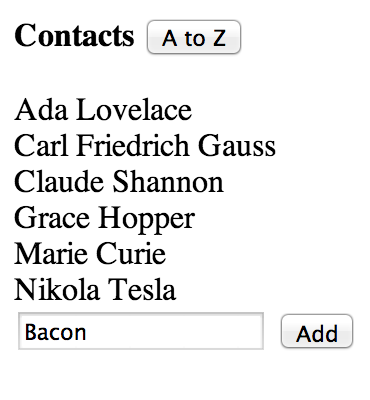
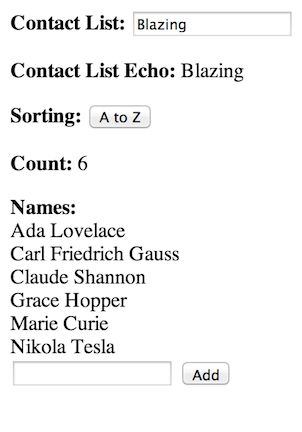
entire model as blaze var

diff --git a/contacts-bacon.html b/contacts-bacon.html
@@ -2,7 +2,11 @@
 
     <!-- The template named "main" automatically renders into the document body -->
     <script type="text/spacebars" name="main">
-<p><b>Contacts</b> <button id="toggle-order">{{order}}</button></p>
+<p><b>Contact List:</b> <input type="text" id="list-name"/></p>
+<p><b>Contact List Echo: </b> {{model.listName}}</p>
+<p><b>Sorting:</b> <button id="toggle-order">{{order}}</button></p>
+<p><b>Count: </b>{{model.names.length}}</p>
+<b> Names:</b>
  {{#each contacts}}
    <div>{{.}}</div>
  {{/each}}
@@ -19,9 +23,16 @@
 
     <script>
         function blazify(model, name) {
-            var b = Blaze.Var(model.get()[name]);
-            model.lens(name).onValue(b, "set");
-            return b;
+            if (name) {
+                var b = Blaze.Var(model.get()[name]);
+                model.lens(name).onValue(b, "set");
+                return b;
+            }
+            else {
+                var b = Blaze.Var(model.get());
+                model.onValue(b, "set");
+                return b;
+            }
         }
 
         function sorted (arr, asc) {
@@ -31,6 +42,22 @@
                 cloned.reverse(); // reverse in-place
             return cloned;
         };
+
+        function binder(component, name, type) {
+            return function(ev) {
+                var val = null;
+                if (type = "switch") {
+                   val = $(ev.target).is(":checked");
+                }
+                if (type = "enter" && ev.keyCode === 13) {console.log("ENTER")
+                    val = $(ev.target).val();
+                }
+                if(!type || val == null) {
+                   val = $(ev.target).val();
+                }
+                component.set(name, val);
+            }
+        }
 
         function componentFactory() {
             var model = new Bacon.Model({
@@ -42,6 +69,9 @@
             return {
                 blazify: function(name) {
                     return blazify(model, name);
+                },
+                set: function(name, val) {
+                    model.lens(name).set(val);
                 },
                 toggleOrder: function () { model.lens("ascending").set(! model.get().ascending); },
                 addName: function (evt, tmpl) {
@@ -56,13 +86,15 @@
         };
 
         function viewFactory(component) {
-            var names = component.blazify("names");
-            var ascending = component.blazify("ascending");
+            //var names = component.blazify("names");
+            //var ascending = component.blazify("ascending");
+            var model = component.blazify();
 
             return {
                 helpers: {
-                    order: function () { return ascending.get() ? 'A to Z' : 'Z to A'; },
-                    contacts: function () { return sorted(names.get(), ascending.get()); }
+                    model: function() { return model.get(); },
+                    order: function () { return model.get().ascending ? 'A to Z' : 'Z to A'; },
+                    contacts: function () { return sorted(model.get().names, model.get().ascending); }
                 }
             }
         };
@@ -76,7 +108,8 @@
 
         Template.main.events({
             'click #toggle-order': component.toggleOrder,
-            'submit form': component.addName
+            'submit form': component.addName,
+            'keyup #list-name': binder(component, "listName")
         });
     </script>
 

diff --git a/README.md b/README.md
@@ -1,21 +1,30 @@
 # Using Bacon and Blaze to implement reactive components
 
 1. The component holds a Bacon model and mutator methods.
-2. The view uses Blaze variables and exposes helpers for the Spacebar template.
-3. The component model propagates its changes to the Blaze variables.
+2. The view uses Blaze variable(s) and exposes helpers for the Spacebar template.
+3. The component model propagates its changes to the Blaze variable(s).
 4. Changes to the Blaze variables are only made by this propagation mechanism.
+5. Blaze supports model-to-view binding out-of-the-box
+6. For view-to-model or 2-way bindings it is easy to map events to Bacon model lens
+
+It is also possible to use Bacon's bindings.
 
 
 Modified example from: http://codepen.io/imslavko/pen/KhAyp .
 
 ![ ](screen1.png) ![ ](screen2.png)
+![ ](screen3.png) ![ ](screen4.png)
 
 ```
 <head>
 
     <!-- The template named "main" automatically renders into the document body -->
     <script type="text/spacebars" name="main">
-        <p><b>Contacts</b> <button id="toggle-order">{{order}}</button></p>
+        <p><b>Contact List:</b> <input type="text" id="list-name"/></p>
+        <p><b>Contact List Echo: </b> {{model.listName}}</p>
+        <p><b>Sorting:</b> <button id="toggle-order">{{order}}</button></p>
+        <p><b>Count: </b>{{model.names.length}}</p>
+        <b> Names:</b>
          {{#each contacts}}
            <div>{{.}}</div>
          {{/each}}
@@ -32,9 +41,16 @@ Modified example from: http://codepen.io/imslavko/pen/KhAyp .
 
     <script>
         function blazify(model, name) {
-            var b = Blaze.Var(model.get()[name]);
-            model.lens(name).onValue(b, "set");
-            return b;
+            if (name) {
+                var b = Blaze.Var(model.get()[name]);
+                model.lens(name).onValue(b, "set");
+                return b;
+            }
+            else {
+                var b = Blaze.Var(model.get());
+                model.onValue(b, "set");
+                return b;
+            }
         }
 
         function sorted (arr, asc) {
@@ -44,6 +60,22 @@ Modified example from: http://codepen.io/imslavko/pen/KhAyp .
                 cloned.reverse(); // reverse in-place
             return cloned;
         };
+
+        function binder(component, name, type) {
+            return function(ev) {
+                var val = null;
+                if (type = "switch") {
+                   val = $(ev.target).is(":checked");
+                }
+                if (type = "enter" && ev.keyCode === 13) {console.log("ENTER")
+                    val = $(ev.target).val();
+                }
+                if(!type || val == null) {
+                   val = $(ev.target).val();
+                }
+                component.set(name, val);
+            }
+        }
 
         function componentFactory() {
             var model = new Bacon.Model({
@@ -55,6 +87,9 @@ Modified example from: http://codepen.io/imslavko/pen/KhAyp .
             return {
                 blazify: function(name) {
                     return blazify(model, name);
+                },
+                set: function(name, val) {
+                    model.lens(name).set(val);
                 },
                 toggleOrder: function () { model.lens("ascending").set(! model.get().ascending); },
                 addName: function (evt, tmpl) {
@@ -69,13 +104,15 @@ Modified example from: http://codepen.io/imslavko/pen/KhAyp .
         };
 
         function viewFactory(component) {
-            var names = component.blazify("names");
-            var ascending = component.blazify("ascending");
+            //var names = component.blazify("names");
+            //var ascending = component.blazify("ascending");
+            var model = component.blazify();
 
             return {
                 helpers: {
-                    order: function () { return ascending.get() ? 'A to Z' : 'Z to A'; },
-                    contacts: function () { return sorted(names.get(), ascending.get()); }
+                    model: function() { return model.get(); },
+                    order: function () { return model.get().ascending ? 'A to Z' : 'Z to A'; },
+                    contacts: function () { return sorted(model.get().names, model.get().ascending); }
                 }
             }
         };
@@ -89,9 +126,11 @@ Modified example from: http://codepen.io/imslavko/pen/KhAyp .
 
         Template.main.events({
             'click #toggle-order': component.toggleOrder,
-            'submit form': component.addName
+            'submit form': component.addName,
+            'keyup #list-name': binder(component, "listName")
         });
     </script>
 
 </head>
+
 ```
